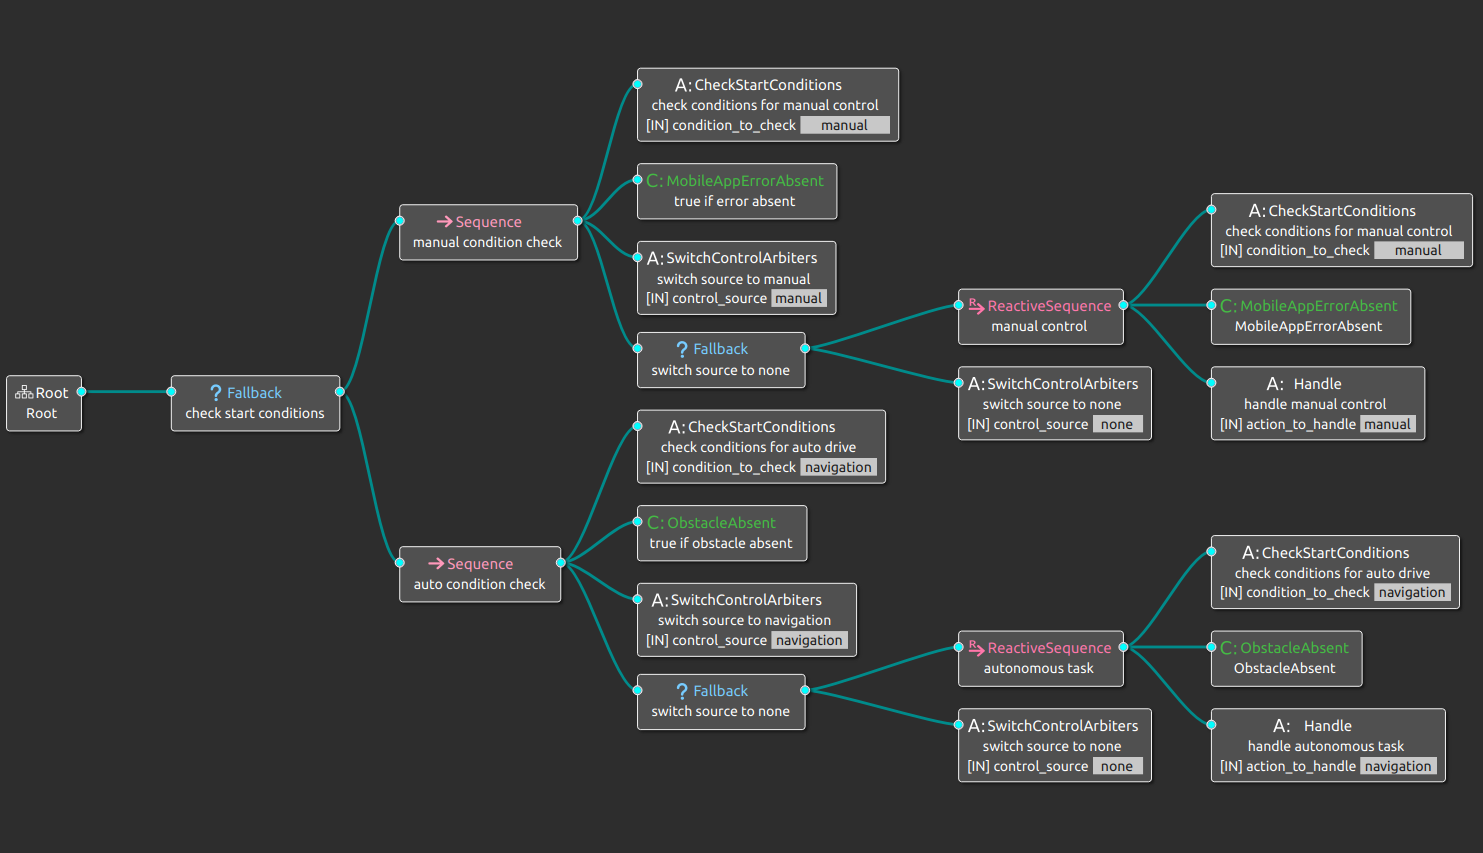
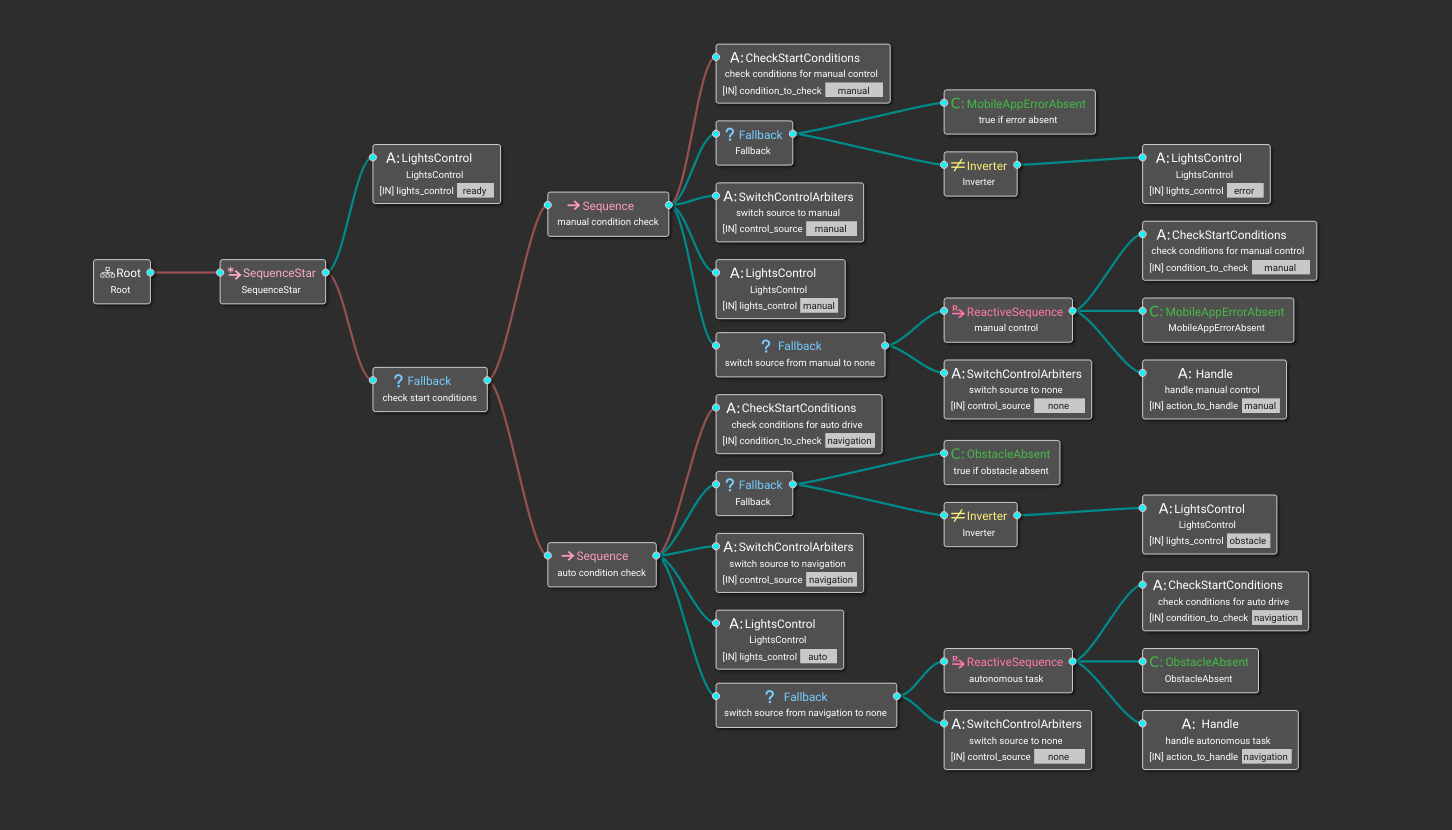
Add lights control to BT

Changed region(s): [[0.0, 0.0301, 1.0, 0.9337]]

diff --git a/include/agribot_behavior/node/AgribotBehaviorTreeNode.h b/include/agribot_behavior/node/AgribotBehaviorTreeNode.h
@@ -4,34 +4,33 @@
 
 #pragma once
 
-#include <behaviortree_cpp_v3/bt_factory.h>
-#include <behaviortree_cpp_v3/loggers/bt_zmq_publisher.h>
-
 #include <agribot_behavior/action/CheckStartConditions.h>
-#include <agribot_behavior/action/SwitchControlArbiters.h>
 #include <agribot_behavior/action/Handle.h>
-#include <agribot_behavior/common/SharedField.h>
+#include <agribot_behavior/action/LightsControl.h>
+#include <agribot_behavior/action/SwitchControlArbiters.h>
 #include <agribot_behavior/common/OneTimeLogger.h>
+#include <agribot_behavior/common/SharedField.h>
 #include <agribot_behavior/path_handle/PathFeeder.h>
 #include <agribot_common/CommonFunctions/ros_common_functions.h>
-
-#include <ros/ros.h>
-#include <ros/package.h>
-
-#include <std_srvs/Empty.h>
-#include <std_msgs/String.h>
-#include <industrial_msgs/RobotMode.h>
-#include <agribot_msgs/ToolManagerControlSource.h>
+#include <agribot_msgs/AgribotAppErrorFlag.h>
 #include <agribot_msgs/AgribotMoveBaseCommand.h>
 #include <agribot_msgs/AgribotMoveBaseMonitorResult.h>
 #include <agribot_msgs/AgribotObstacleDetection.h>
+#include <agribot_msgs/LampsControl.h>
 #include <agribot_msgs/NavSatFixOrientation.h>
-#include <agribot_msgs/AgribotAppErrorFlag.h>
+#include <agribot_msgs/ToolManagerControlSource.h>
+#include <behaviortree_cpp_v3/bt_factory.h>
+#include <behaviortree_cpp_v3/loggers/bt_zmq_publisher.h>
+#include <industrial_msgs/RobotMode.h>
+#include <ros/package.h>
+#include <ros/ros.h>
+#include <std_msgs/String.h>
+#include <std_srvs/Empty.h>
 
-#include <experimental/filesystem>  // when migrating to GCC version >= 8.0 experimental part of header should be removed
-#include <string>
 #include <atomic>
+#include <experimental/filesystem>  // when migrating to GCC version >= 8.0 experimental part of header should be removed
 #include <memory>
+#include <string>
 
 namespace agribot_behavior
 {
@@ -75,6 +74,7 @@ private:
   std::shared_ptr<ros::ServiceClient> cmd_vel_manual_client_;
   std::shared_ptr<ros::ServiceClient> cmd_vel_navigation_client_;
   std::shared_ptr<ros::ServiceClient> cmd_vel_stop_client_;
+  std::shared_ptr<ros::ServiceClient> hal_lights_client_;
 
   // Variables shared between tree nodes, which are changed in callbacks. The thread safety is guaranteed by Shared<>
   // class

diff --git a/src/node/AgribotBehaviorTreeNode.cpp b/src/node/AgribotBehaviorTreeNode.cpp
@@ -39,6 +39,7 @@ void AgribotBehaviorTreeNode::registerTreeNodes()
   factory_->registerNodeType<CheckStartConditions>("CheckStartConditions");
   factory_->registerNodeType<SwitchControlArbiters>("SwitchControlArbiters");
   factory_->registerNodeType<Handle>("Handle");
+  factory_->registerNodeType<LightsControl>("LightsControl");
   factory_->registerSimpleCondition(
       "ObstacleAbsent", std::bind(&AgribotBehaviorTreeNode::simpleConditionCheck, this, CheckAbsenceOf::Obstacle));
   factory_->registerSimpleCondition("MobileAppErrorAbsent", std::bind(&AgribotBehaviorTreeNode::simpleConditionCheck,
@@ -71,6 +72,10 @@ void AgribotBehaviorTreeNode::initTreeNodesWithRosDependencies()
       handle->initSharedFields(task_name_, move_base_monitor_result_);
       handle->initPublishers(waypoints_publisher_, move_base_command_publisher_);
       handle->initPathFeeder(path_folder_, task_folder_);
+    }
+    if (auto lights_control = dynamic_cast<LightsControl*>(node.get()); lights_control != nullptr)
+    {
+      lights_control->initSharedFields(hal_lights_client_);
     }
   }
 }
@@ -119,6 +124,8 @@ void AgribotBehaviorTreeNode::initRosServices()
       node_handle_->serviceClient<std_srvs::Empty>("/cmd_vel_arbiter_node/switch_to_navigation"));
   cmd_vel_stop_client_ = std::make_shared<ros::ServiceClient>(
       node_handle_->serviceClient<std_srvs::Empty>("/cmd_vel_arbiter_node/switch_to_stop"));
+  hal_lights_client_ = std::make_shared<ros::ServiceClient>(
+      node_handle_->serviceClient<agribot_msgs::LampsControl>("/agribot/hal_lights/change_lamps_configuration"));
 }
 
 // TODO(someone): while refactoring change state_machine -> behavior_tree in topic names

diff --git a/include/agribot_behavior/generic_ports/LightsControlPort.h b/include/agribot_behavior/generic_ports/LightsControlPort.h
@@ -1,0 +1,54 @@
+/*
+ * Copyright (C) 2021 Agribot. All rights reserved.
+ */
+
+#pragma once
+
+#include <agribot_msgs/LampsControl.h>
+#include <behaviortree_cpp_v3/basic_types.h>
+
+namespace BT
+{
+template <>
+inline agribot_msgs::LampsControl convertFromString(StringView str)
+{
+  agribot_msgs::LampsControl srv;
+  srv.request.lamp = srv.request.left_back_lamp | srv.request.right_back_lamp | srv.request.left_front_lamp |
+                     srv.request.right_front_lamp;
+  srv.request.intensity = 100;
+  if (str == "ready")
+  {
+    srv.request.color = srv.request.green;
+    srv.request.flash_period_in_miliseconds = 1000;
+    return srv;
+  }
+  else if (str == "auto")
+  {
+    srv.request.color = srv.request.green;
+    srv.request.flash_period_in_miliseconds = 0;
+    return srv;
+  }
+  else if (str == "manual")
+  {
+    srv.request.color = srv.request.blue;
+    srv.request.flash_period_in_miliseconds = 0;
+    return srv;
+  }
+  else if (str == "error")
+  {
+    srv.request.color = srv.request.red;
+    srv.request.flash_period_in_miliseconds = 1000;
+    return srv;
+  }
+  else if (str == "obstacle")
+  {
+    srv.request.color = srv.request.orange;
+    srv.request.flash_period_in_miliseconds = 1000;
+    return srv;
+  }
+  else
+  {
+    throw RuntimeError("Invalid input from convertFromString for LampsControl");
+  }
+}
+}  // end namespace BT

diff --git a/src/action/LightsControl.cpp b/src/action/LightsControl.cpp
@@ -1,0 +1,42 @@
+/*
+ * Copyright (C) 2021 Agribot. All rights reserved.
+ */
+
+#include <agribot_behavior/action/LightsControl.h>
+
+namespace agribot_behavior
+{
+LightsControl::LightsControl(const std::string& name, const BT::NodeConfiguration& config)
+  : SyncActionNode(name, config)
+{
+}
+
+BT::PortsList LightsControl::providedPorts()
+{
+  return { BT::InputPort<agribot_msgs::LampsControl>("lights_control") };
+}
+
+BT::NodeStatus LightsControl::tick()
+{
+  BT::Optional<agribot_msgs::LampsControl> msg = TreeNode::getInput<agribot_msgs::LampsControl>("lights_control");
+  if (!msg)
+  {
+    ROS_ERROR_STREAM("[BehaviorTree][LightsControl] Missing required input [lights_control]: " << msg.error());
+    return BT::NodeStatus::FAILURE;
+  }
+  else
+  {
+    if (!hal_lights_client_->call(msg.value()))
+    {
+      return BT::NodeStatus::FAILURE;
+    }
+  }
+  return BT::NodeStatus::SUCCESS;
+}
+
+void LightsControl::initSharedFields(std::shared_ptr<ros::ServiceClient> hal_lights_client)
+{
+  hal_lights_client_ = hal_lights_client;
+}
+
+}  // namespace agribot_behavior

diff --git a/include/agribot_behavior/action/LightsControl.h b/include/agribot_behavior/action/LightsControl.h
@@ -1,0 +1,29 @@
+/*
+ * Copyright (C) 2021 Agribot. All rights reserved.
+ */
+
+#pragma once
+
+#include <agribot_behavior/common/SharedField.h>
+#include <agribot_behavior/generic_ports/LightsControlPort.h>
+#include <behaviortree_cpp_v3/action_node.h>
+#include <ros/console.h>
+#include <ros/ros.h>
+
+#include <memory>
+#include <string>
+
+namespace agribot_behavior
+{
+class LightsControl : public BT::SyncActionNode
+{
+private:
+  std::shared_ptr<ros::ServiceClient> hal_lights_client_;
+
+public:
+  LightsControl(const std::string& name, const BT::NodeConfiguration& config);
+  static BT::PortsList providedPorts();
+  BT::NodeStatus tick() override;
+  void initSharedFields(std::shared_ptr<ros::ServiceClient> hal_lights_client);
+};
+}  // namespace agribot_behavior
